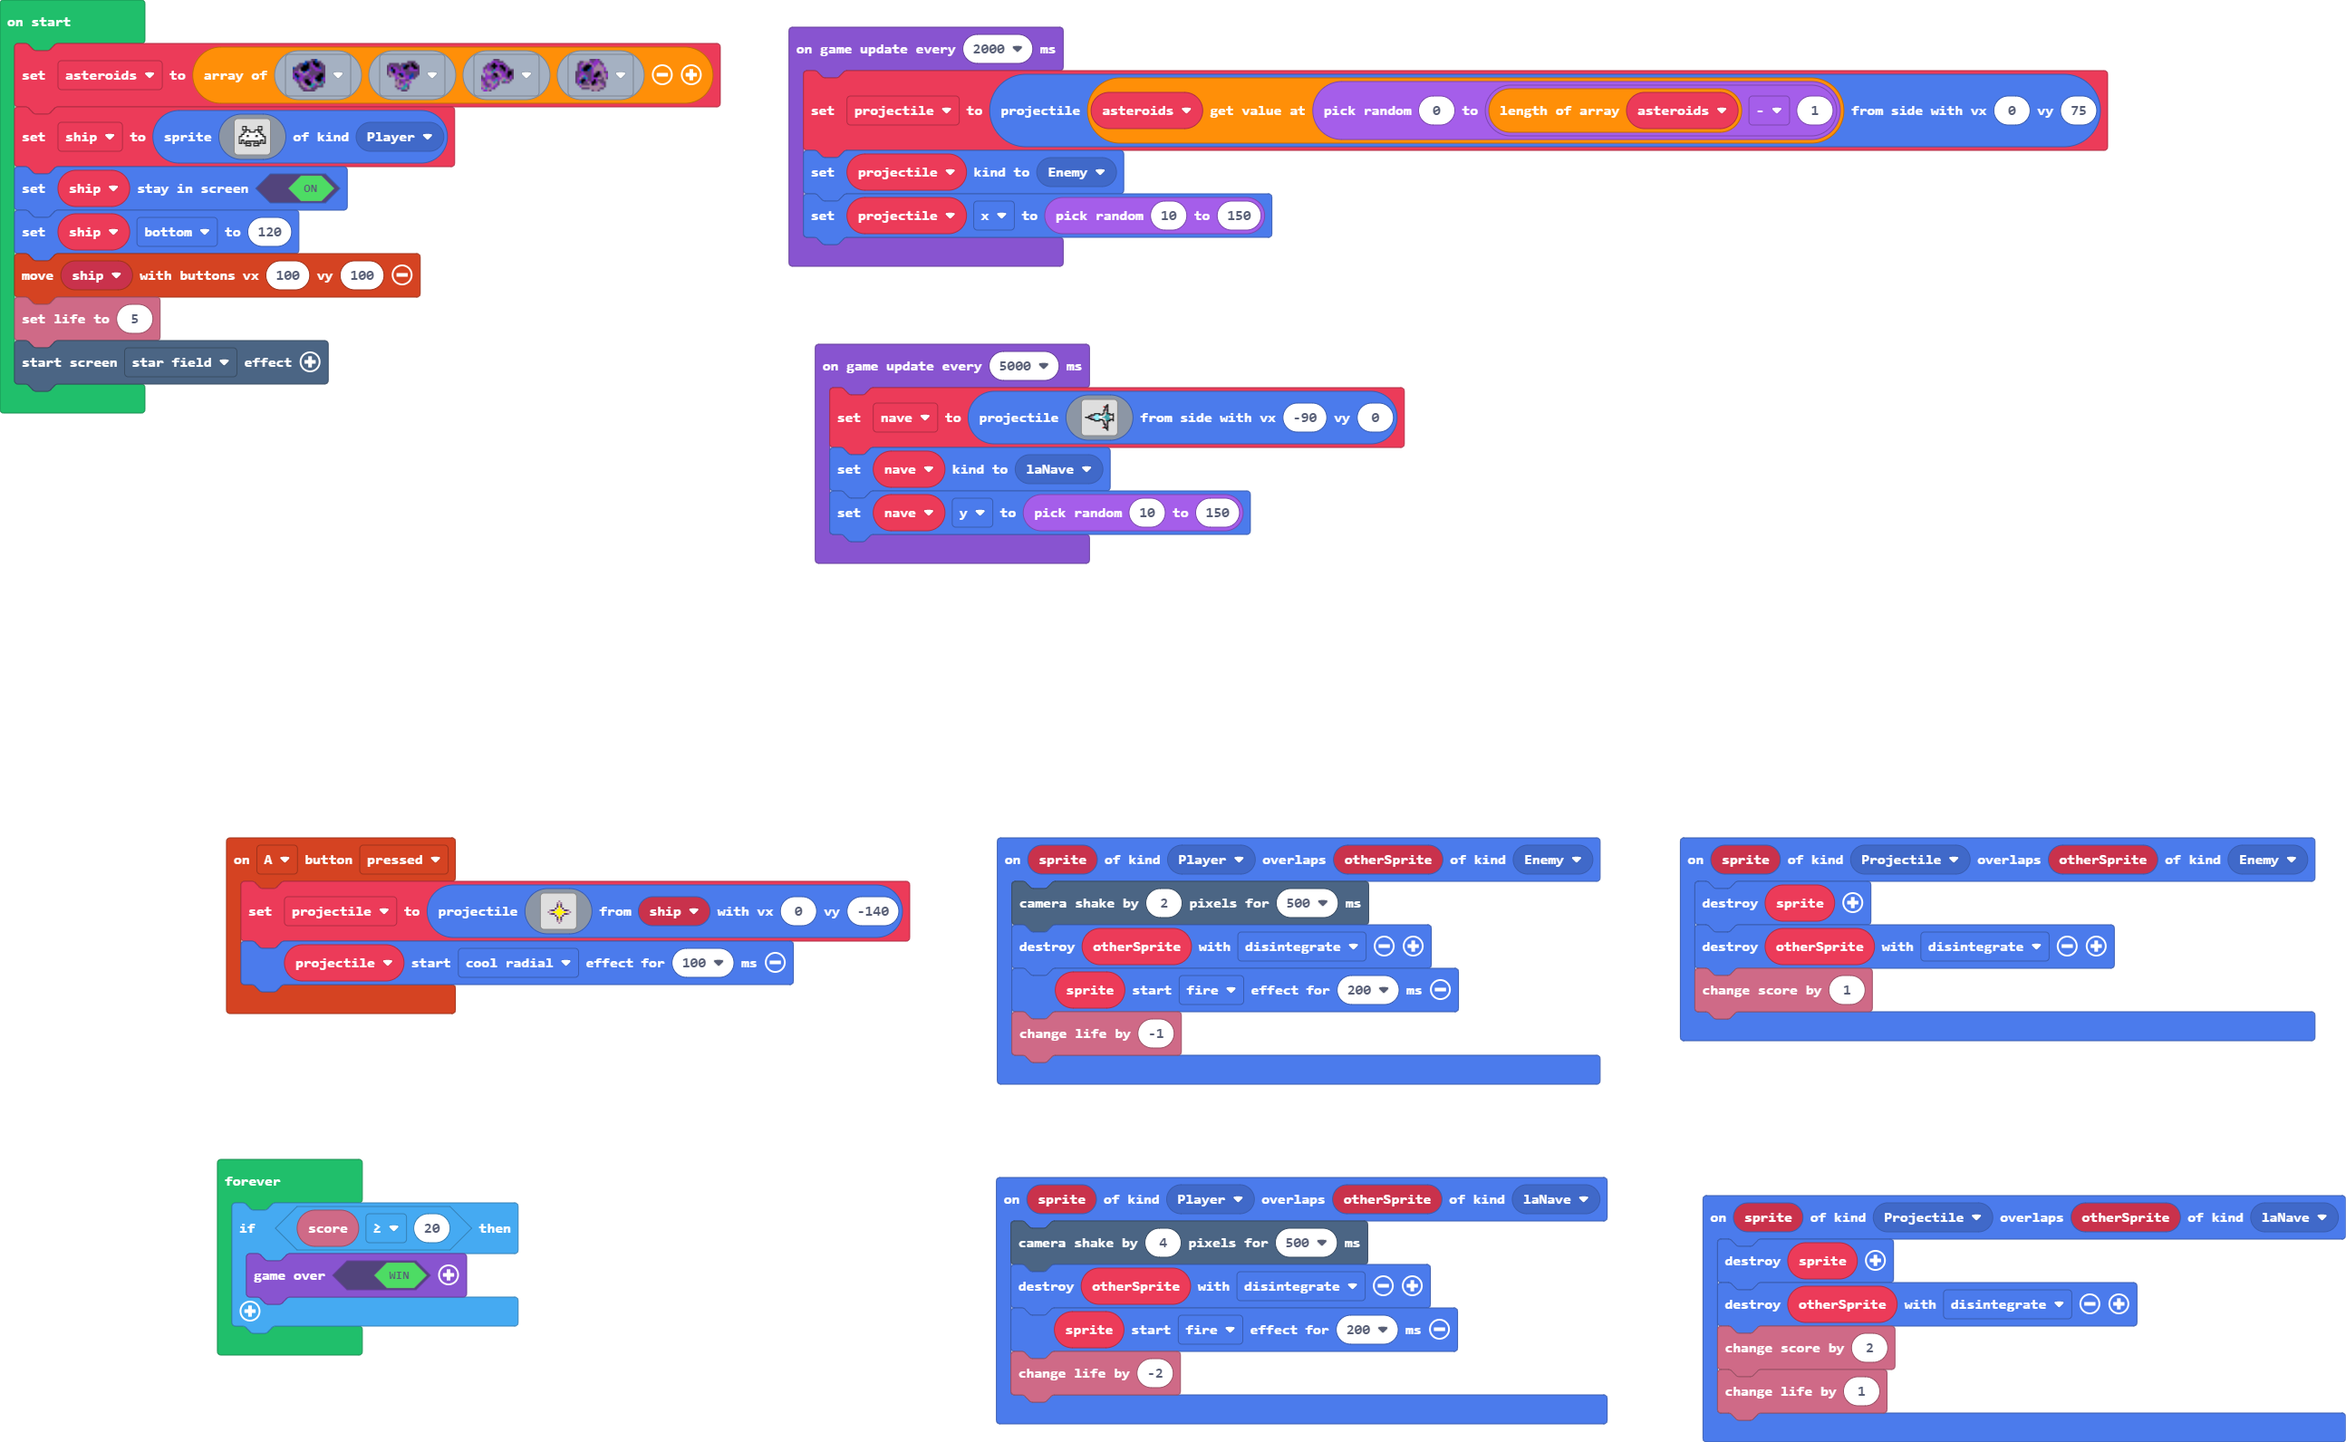
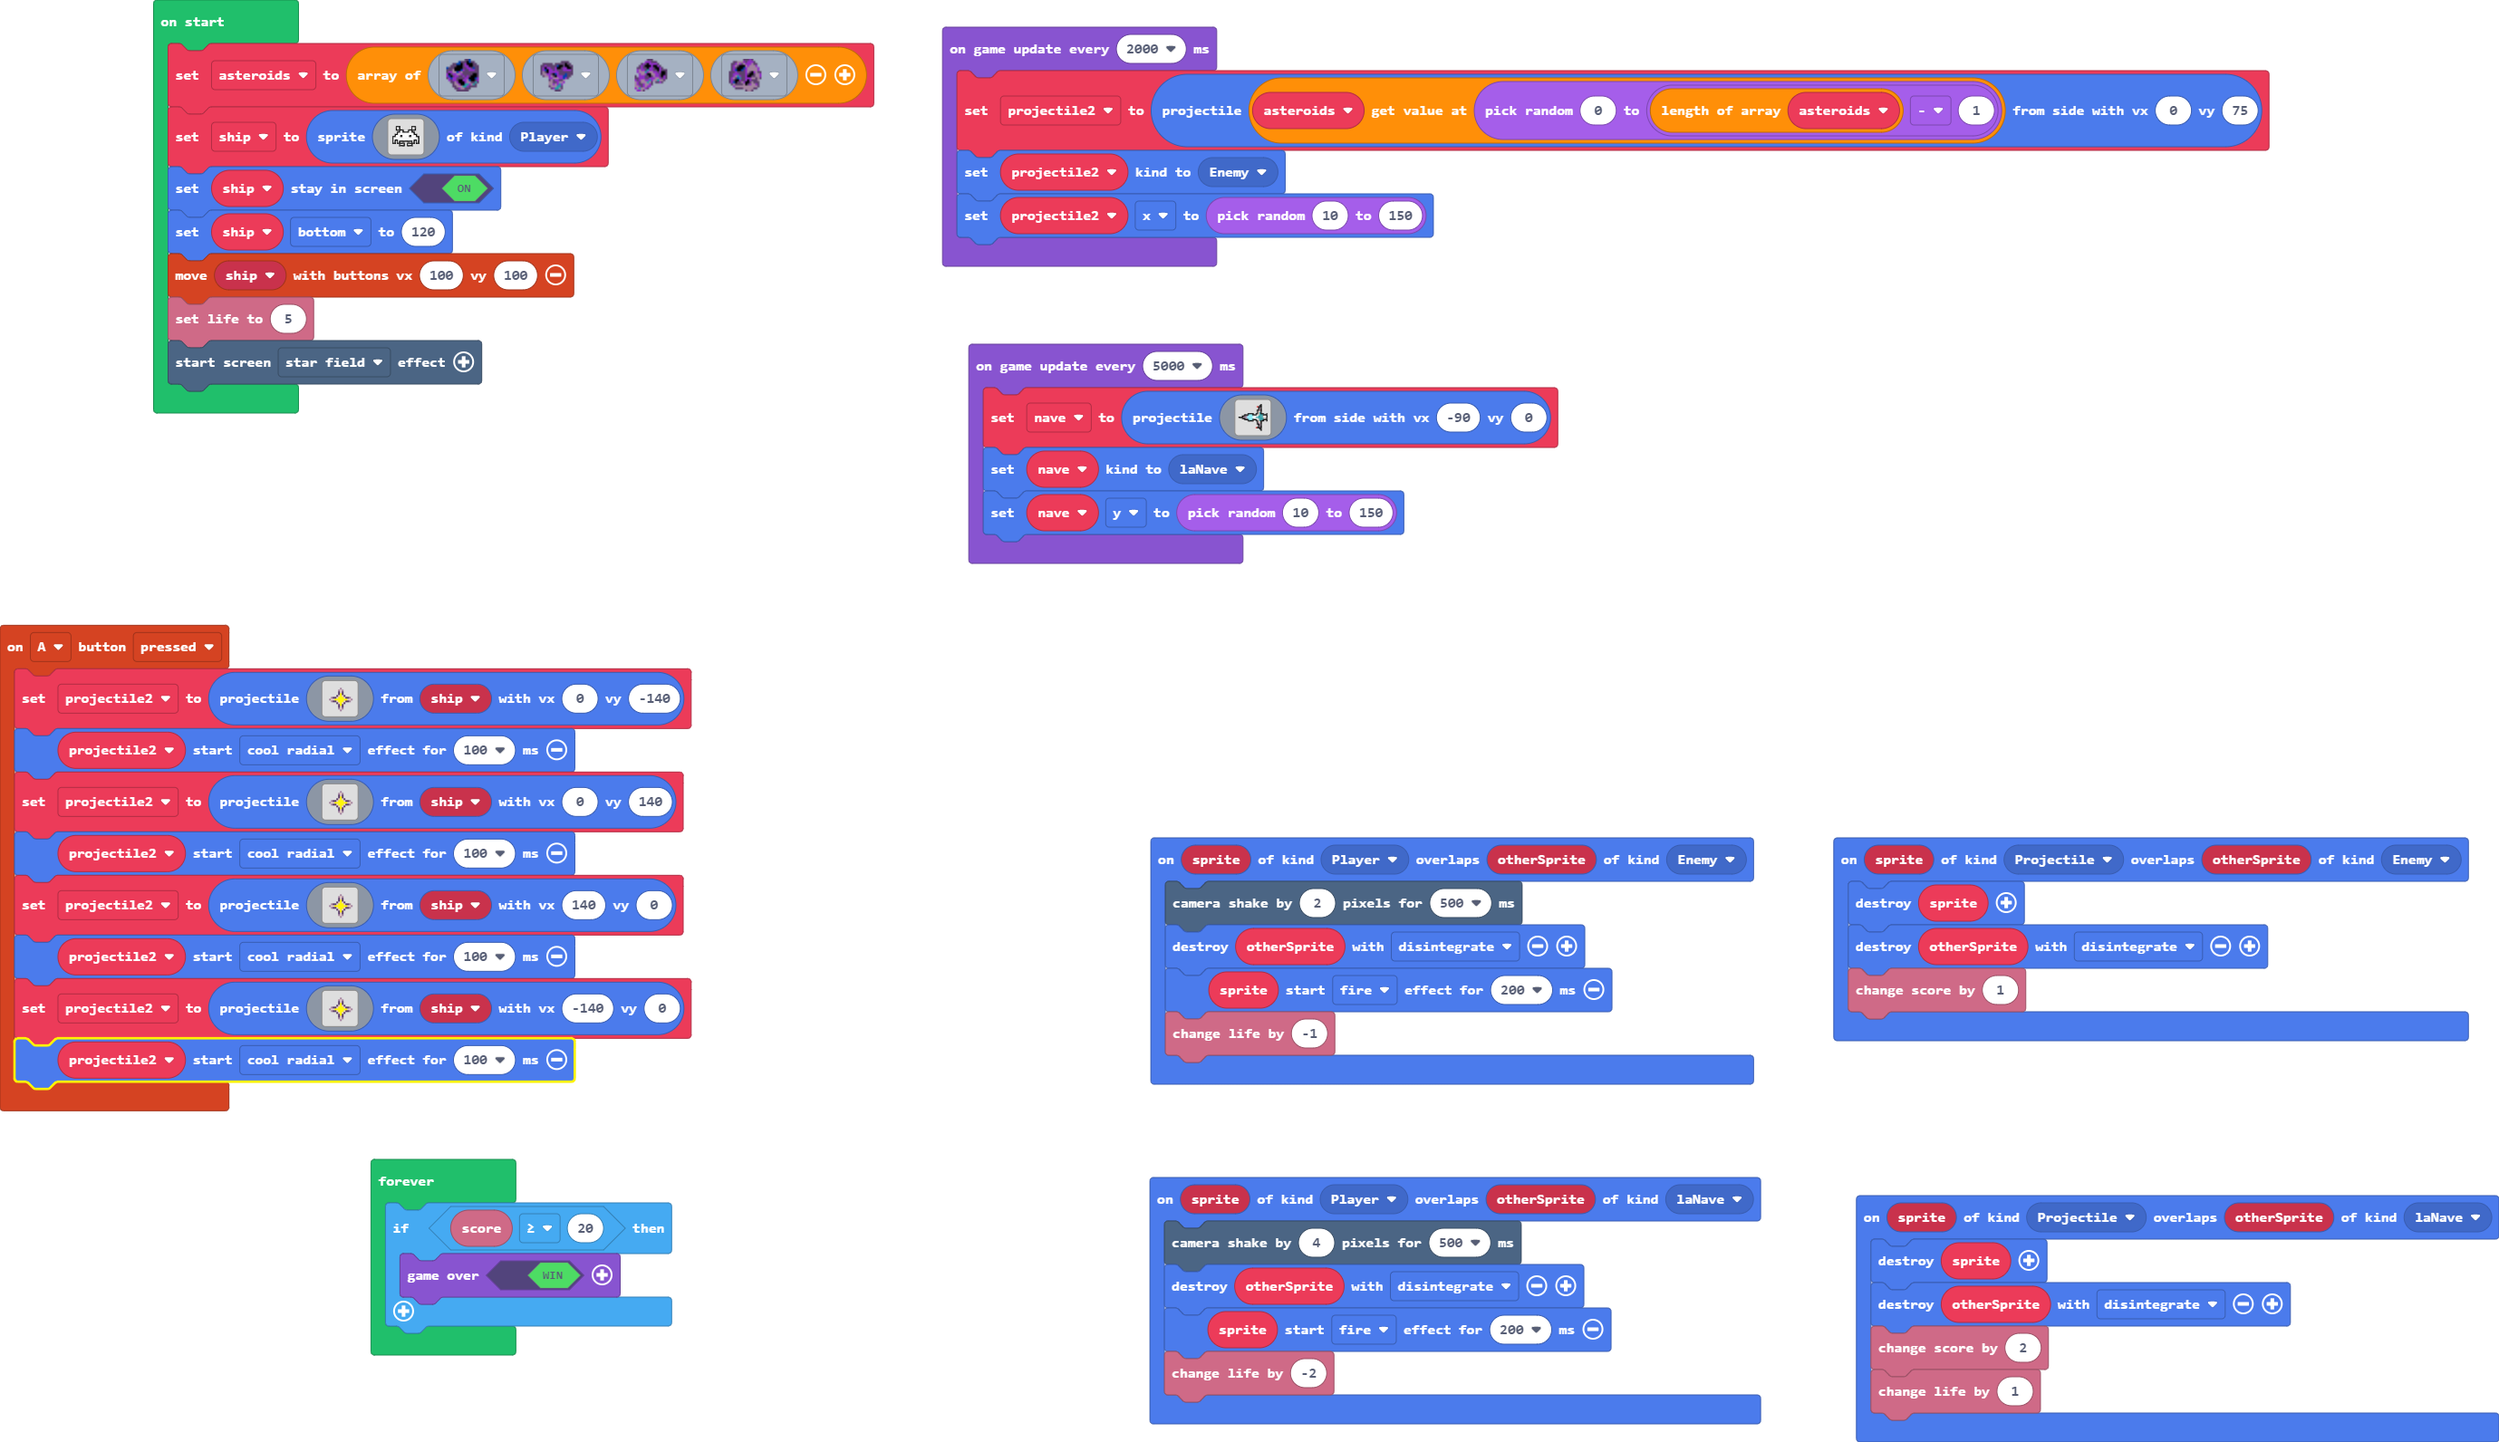
Update pxt.json, main.blocks, main.ts

diff --git a/main.ts b/main.ts
@@ -8,7 +8,7 @@ sprites.onOverlap(SpriteKind.Player, SpriteKind.laNave, function (sprite, otherS
     info.changeLifeBy(-2)
 })
 controller.A.onEvent(ControllerButtonEvent.Pressed, function () {
-    projectile = sprites.createProjectileFromSprite(img`
+    projectile2 = sprites.createProjectileFromSprite(img`
         . . . . . . . . . . . . . . . . 
         . . . . . . . . . . . . . . . . 
         . . . . . . . . b . . . . . . . 
@@ -26,7 +26,64 @@ controller.A.onEvent(ControllerButtonEvent.Pressed, function () {
         . . . . . . . . b . . . . . . . 
         . . . . . . . . . . . . . . . . 
         `, ship, 0, -140)
-    projectile.startEffect(effects.coolRadial, 100)
+    projectile2.startEffect(effects.coolRadial, 100)
+    projectile2 = sprites.createProjectileFromSprite(img`
+        . . . . . . . . . . . . . . . . 
+        . . . . . . . . . . . . . . . . 
+        . . . . . . . . b . . . . . . . 
+        . . . . . . . b d b . . . . . . 
+        . . . . . . . c d c . . . . . . 
+        . . . . . . . c 5 c . . . . . . 
+        . . . . . . c d 5 d c . . . . . 
+        . . . b c c d 5 5 5 d c c b . . 
+        . . b d d 5 5 5 5 5 5 5 d d b . 
+        . . . b c c d 5 5 5 d c c b . . 
+        . . . . . . c d 5 d c . . . . . 
+        . . . . . . . c 5 c . . . . . . 
+        . . . . . . . c d c . . . . . . 
+        . . . . . . . b d b . . . . . . 
+        . . . . . . . . b . . . . . . . 
+        . . . . . . . . . . . . . . . . 
+        `, ship, 0, 140)
+    projectile2.startEffect(effects.coolRadial, 100)
+    projectile2 = sprites.createProjectileFromSprite(img`
+        . . . . . . . . . . . . . . . . 
+        . . . . . . . . . . . . . . . . 
+        . . . . . . . . b . . . . . . . 
+        . . . . . . . b d b . . . . . . 
+        . . . . . . . c d c . . . . . . 
+        . . . . . . . c 5 c . . . . . . 
+        . . . . . . c d 5 d c . . . . . 
+        . . . b c c d 5 5 5 d c c b . . 
+        . . b d d 5 5 5 5 5 5 5 d d b . 
+        . . . b c c d 5 5 5 d c c b . . 
+        . . . . . . c d 5 d c . . . . . 
+        . . . . . . . c 5 c . . . . . . 
+        . . . . . . . c d c . . . . . . 
+        . . . . . . . b d b . . . . . . 
+        . . . . . . . . b . . . . . . . 
+        . . . . . . . . . . . . . . . . 
+        `, ship, 140, 0)
+    projectile2.startEffect(effects.coolRadial, 100)
+    projectile2 = sprites.createProjectileFromSprite(img`
+        . . . . . . . . . . . . . . . . 
+        . . . . . . . . . . . . . . . . 
+        . . . . . . . . b . . . . . . . 
+        . . . . . . . b d b . . . . . . 
+        . . . . . . . c d c . . . . . . 
+        . . . . . . . c 5 c . . . . . . 
+        . . . . . . c d 5 d c . . . . . 
+        . . . b c c d 5 5 5 d c c b . . 
+        . . b d d 5 5 5 5 5 5 5 d d b . 
+        . . . b c c d 5 5 5 d c c b . . 
+        . . . . . . c d 5 d c . . . . . 
+        . . . . . . . c 5 c . . . . . . 
+        . . . . . . . c d c . . . . . . 
+        . . . . . . . b d b . . . . . . 
+        . . . . . . . . b . . . . . . . 
+        . . . . . . . . . . . . . . . . 
+        `, ship, -140, 0)
+    projectile2.startEffect(effects.coolRadial, 100)
 })
 sprites.onOverlap(SpriteKind.Projectile, SpriteKind.laNave, function (sprite, otherSprite) {
     sprite.destroy()
@@ -46,7 +103,7 @@ sprites.onOverlap(SpriteKind.Player, SpriteKind.Enemy, function (sprite, otherSp
     info.changeLifeBy(-1)
 })
 let nave: Sprite = null
-let projectile: Sprite = null
+let projectile2: Sprite = null
 let ship: Sprite = null
 let asteroids = [sprites.space.spaceAsteroid0, sprites.space.spaceAsteroid1, sprites.space.spaceAsteroid4, sprites.space.spaceAsteroid3]
 ship = sprites.create(img`
@@ -106,9 +163,9 @@ game.onUpdateInterval(5000, function () {
     nave.y = randint(10, 150)
 })
 game.onUpdateInterval(2000, function () {
-    projectile = sprites.createProjectileFromSide(asteroids[randint(0, asteroids.length - 1)], 0, 75)
-    projectile.setKind(SpriteKind.Enemy)
-    projectile.x = randint(10, 150)
+    projectile2 = sprites.createProjectileFromSide(asteroids[randint(0, asteroids.length - 1)], 0, 75)
+    projectile2.setKind(SpriteKind.Enemy)
+    projectile2.x = randint(10, 150)
 })
 forever(function () {
     if (info.score() >= 20) {
